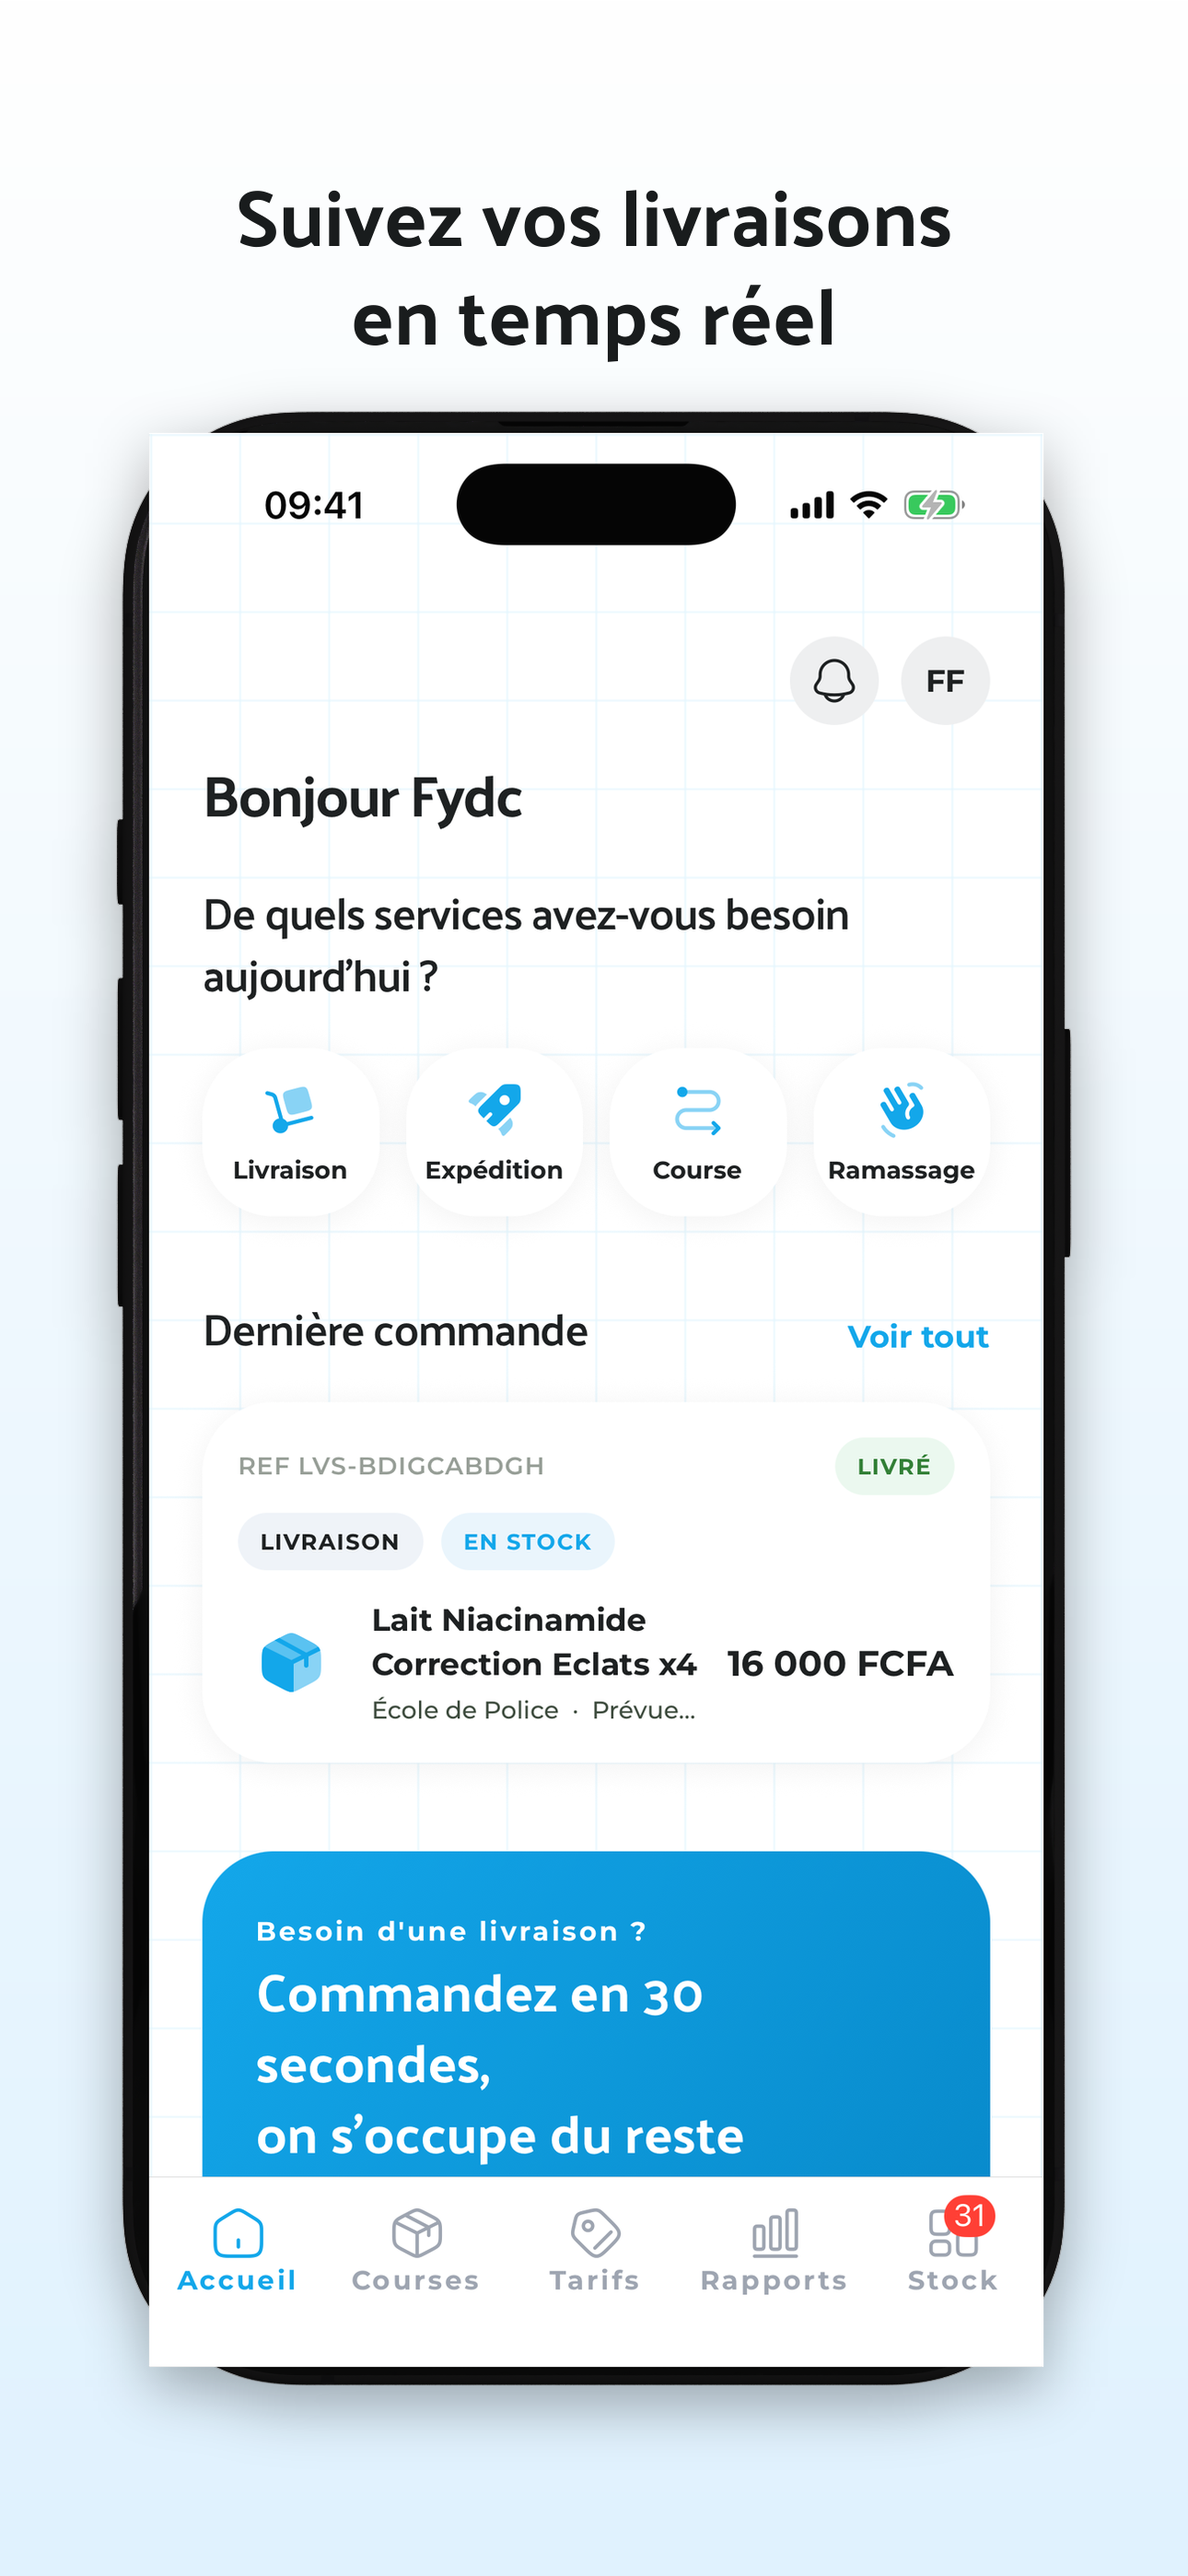
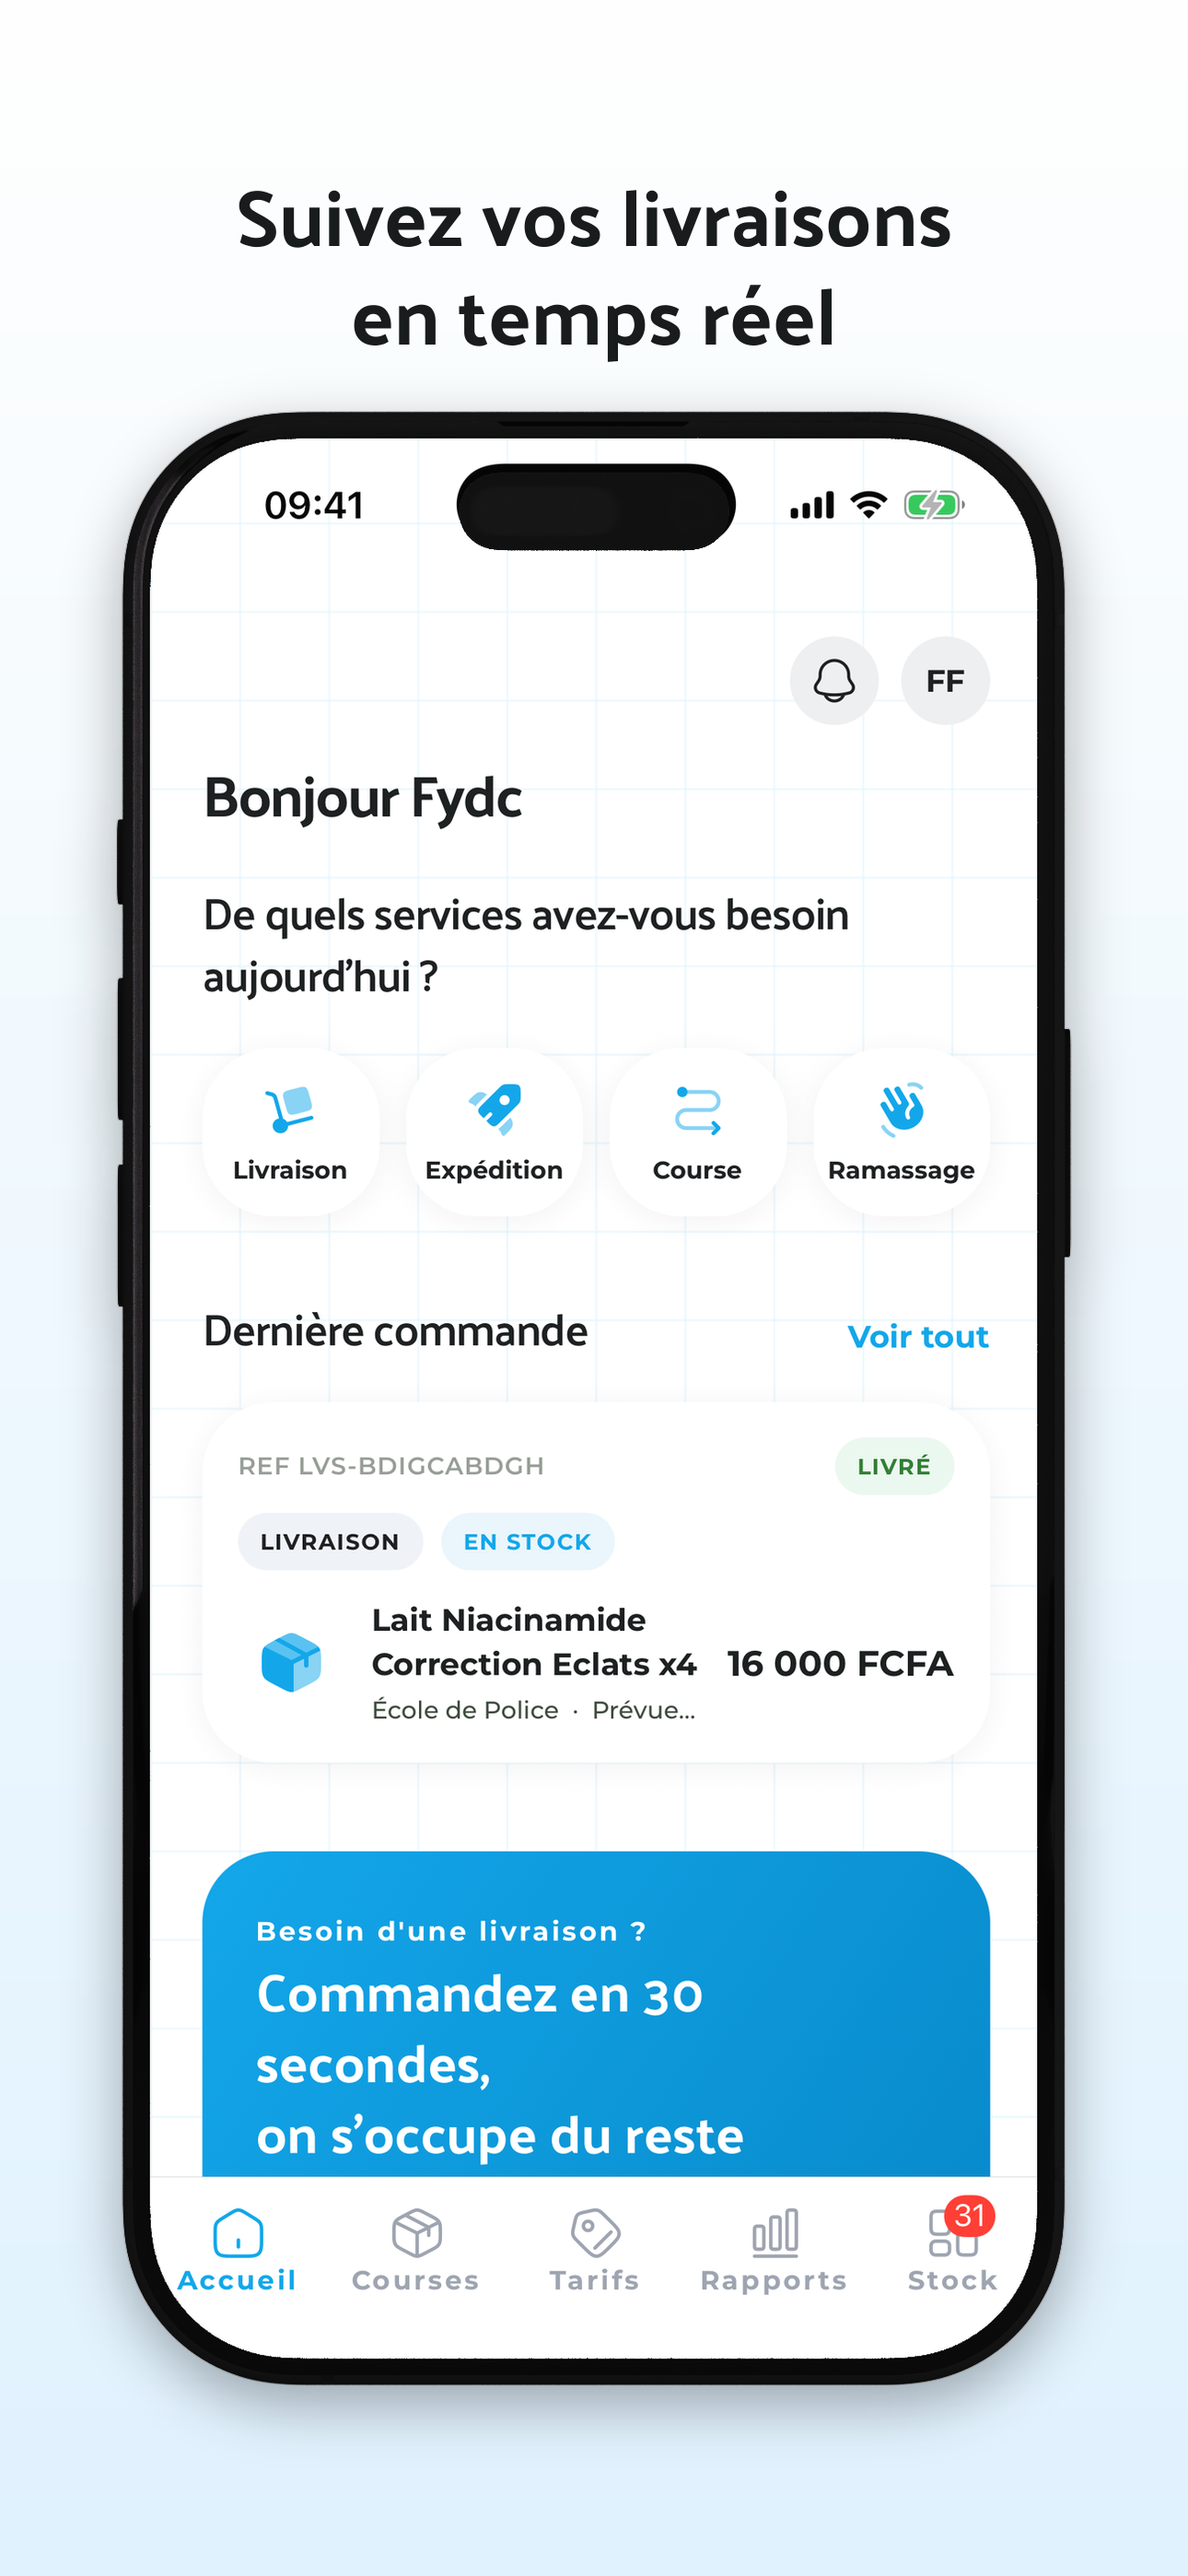
fix(store): mask iPhone screen with the Design group, not the smartobject
The rounded-corner mask lives on the PSD group; the smartobject inside
is square, so screenshots overflowed the bezel corners. Also adds the
App Store product page header (3840x1646, 1646x661 safe area) and the
Samsung S10 mockup for Play visuals with the iOS status bar cropped.

Changed region(s): [[0.124, 0.1556, 0.8992, 0.9335], [0.124, 0.1556, 0.2481, 0.2178]]

diff --git a/sreenshots/compose_store.py b/sreenshots/compose_store.py
@@ -97,7 +97,8 @@ def load_mockup(path, frame_name, screen_name, screen_kind):
     }
 
 
-MOCK_IPHONE = load_mockup(PSD_IPHONE, "iPhone", "Design", "smartobject")
+# The "Design" GROUP carries the rounded-corner mask; the smartobject inside is square.
+MOCK_IPHONE = load_mockup(PSD_IPHONE, "iPhone", "Design", "group")
 MOCK_SAMSUNG = load_mockup(PSD_SAMSUNG, "Case", "Screen", "pixel")
 
 
@@ -188,6 +189,40 @@ def compose(raw_path, caption, style, canvas_size, caption_font_size, phone_widt
     return canvas.convert("RGB")
 
 
+def appstore_header():
+    """App Store product page header: 3840x1646 canvas, 1646x661 centered safe area.
+
+    Everything essential (logo, wordmark, tagline) stays inside the safe area;
+    the rest of the canvas is brand-gradient bleed that the store may crop.
+    """
+    W, H = 3840, 1646
+    img = vertical_gradient((W, H), PRIMARY, PRIMARY_DARK)
+    draw = ImageDraw.Draw(img)
+
+    safe_w, safe_h = 1646, 661
+    sx, sy = (W - safe_w) // 2, (H - safe_h) // 2
+
+    # Logo tile, left side of the safe area
+    logo_path = os.path.join(ROOT, "..", "assets", "images", "logo.png")
+    logo = Image.open(logo_path).convert("RGBA")
+    logo.thumbnail((300, 300), Image.LANCZOS)
+    tile_size = 360
+    tile = Image.new("RGBA", (tile_size, tile_size), (0, 0, 0, 0))
+    ImageDraw.Draw(tile).rounded_rectangle(
+        [0, 0, tile_size - 1, tile_size - 1], radius=86, fill=(255, 255, 255, 255)
+    )
+    tile.paste(logo, ((tile_size - logo.width) // 2, (tile_size - logo.height) // 2), logo)
+    img.paste(tile, (sx + 60, sy + (safe_h - tile_size) // 2), tile)
+
+    title_font = ImageFont.truetype(FONT_TITLE, 150)
+    sub_font = ImageFont.truetype(FONT_BODY, 62)
+    tx = sx + 60 + tile_size + 90
+    draw.text((tx, sy + 150), "LivSight", font=title_font, fill=(255, 255, 255))
+    draw.text((tx + 8, sy + 370), "Vos livraisons, maîtrisées.", font=sub_font, fill=(255, 255, 255, 235))
+
+    return img
+
+
 def feature_graphic():
     size = (1024, 500)
     img = vertical_gradient(size, PRIMARY, PRIMARY_DARK)
@@ -227,6 +262,9 @@ def main():
 
     feature_graphic().save(os.path.join(OUT_PLAY, "feature-graphic.png"))
     print("feature-graphic: play")
+
+    appstore_header().save(os.path.join(OUT_IOS, "product-page-header.png"))
+    print("product-page-header: ios")
 
 
 if __name__ == "__main__":
